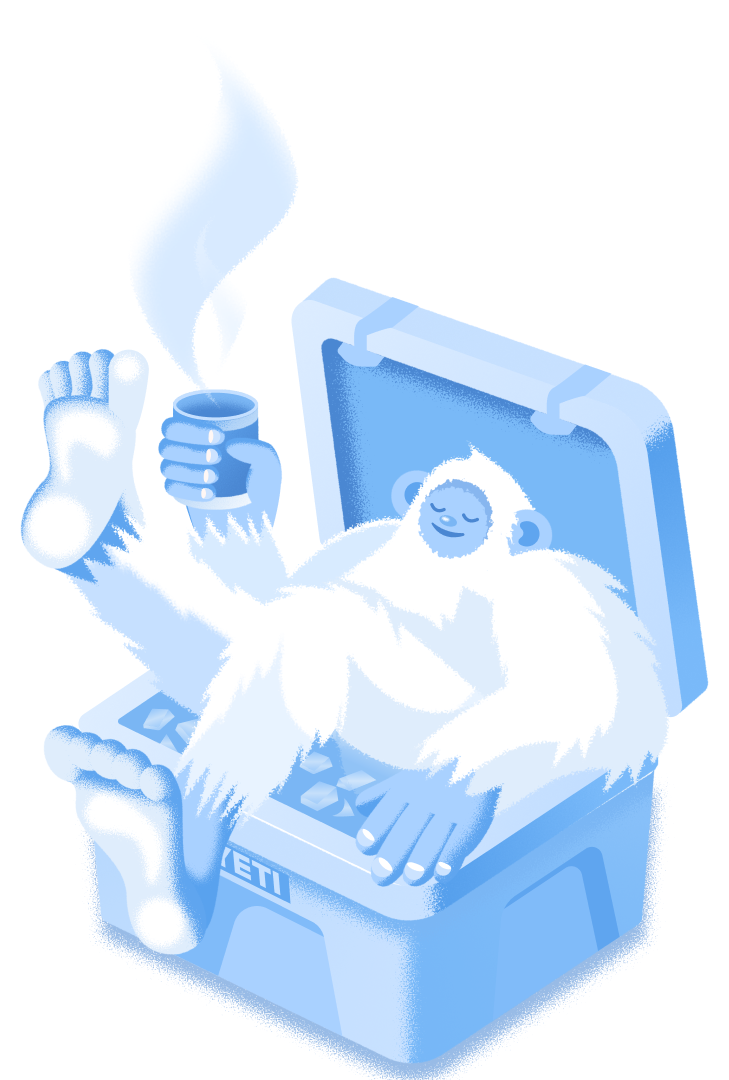
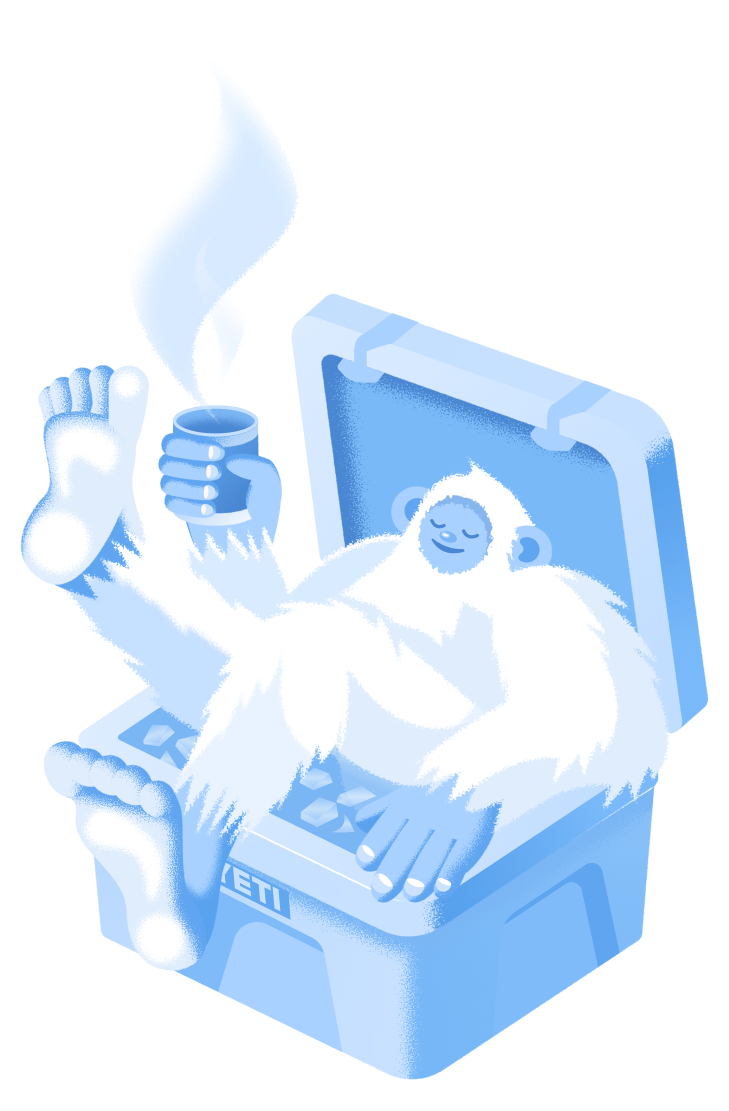
fix(work): update Yeti asset, match height instead of width across all three
Swapped in the updated Yeti crop. Row now sizes by a shared height
(140px) instead of a shared max-width -- Yeti's portrait aspect made
it read much taller than Twingo/iPad under the old width-locked
layout; widths now scale naturally per illustration's own aspect.

diff --git a/app/work/page.tsx b/app/work/page.tsx
@@ -15,7 +15,7 @@ export const metadata: Metadata = {
  *  next/image direct, object-contain, no Plate frame or background
  *  surface. Order is the order they land in the row, left to right. */
 const ILLUSTRATIONS = [
-  { src: "/illustrations/yeti.png", aspect: "729/1080" },
+  { src: "/illustrations/yeti.png", aspect: "729/1111" },
   { src: "/illustrations/twingo-white-final.png", aspect: "1350/656" },
   { src: "/illustrations/ipad.png", aspect: "981/655" },
 ];
@@ -31,11 +31,14 @@ export default function WorkPage() {
           "Work" via metadata above. */}
       <h1 className="sr-only">Work</h1>
 
+      {/* Shared height, not shared width -- Yeti's portrait aspect made it
+          read much taller than Twingo/iPad when all three shared a
+          max-width instead. */}
       <div className="flex flex-wrap items-end gap-6">
         {ILLUSTRATIONS.map(({ src, aspect }) => (
           <div
             key={src}
-            className="relative w-full max-w-[190px]"
+            className="relative h-[140px]"
             style={{ aspectRatio: aspect }}
           >
             <Image
